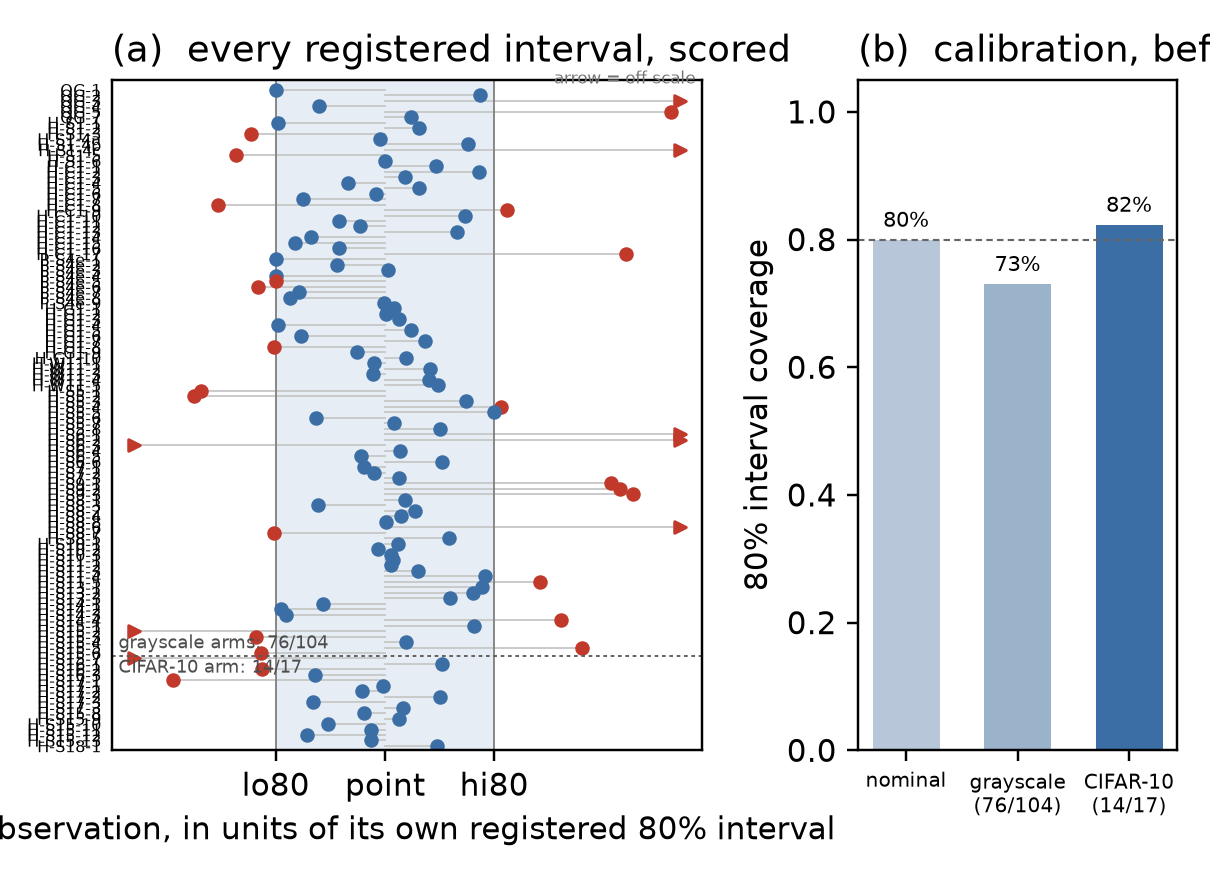
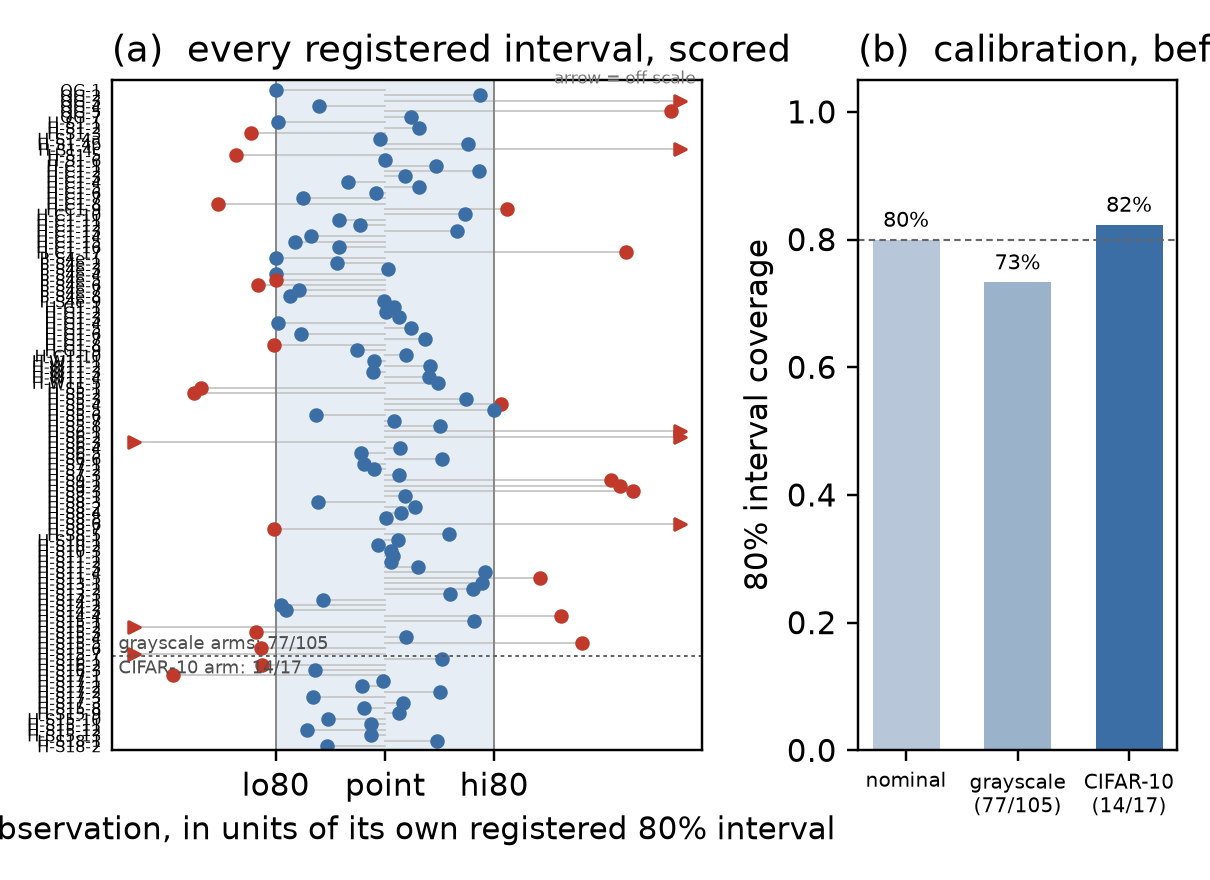
results: S18 shared-init arm at width 128, residual 6.96 points
W12 on P-shared-det-w128 reaches 92.28 (5 seeds) against 85.32 on
P-random-w128, so the shared-versus-random difference is 6.96 points
against 7.8 at width 32. H-S18-2 (point 8, interval [3, 20]) scored as
a hit; calibration figure regenerated from the outcomes ledger.

diff --git a/docs/CLAIMS.md b/docs/CLAIMS.md
@@ -79,3 +79,4 @@ Types: `theorem` (proved), `proposition`, `conjecture` (+ supporting experiment)
 | 65 | **The leaderboard row is complete: W12 places 3rd, 3rd and 2nd of seven, and beats ScaleGMN on CIFAR-10.** Run unchanged and frozen per dataset on the three standard INR-classification corpora: **MNIST 93.08 ± 0.44, FashionMNIST 75.15 ± 0.31, CIFAR-10 38.16 ± 0.22** (five seeds each). Above DWSNets, both NFN variants and NG-GNN on **all three**; above **ScaleGMN** (36.43) on CIFAR-10 by 1.7; below ScaleGMN-B everywhere (−3.5, −5.6, −0.66). The CIFAR gap to ScaleGMN-B is ~3 SD of our seed spread, so it is a real gap and not noise. Import provenance: FashionMNIST uses the **authors' own splits.json** (55k/5k/10k, ScaleGMN's exact protocol); MNIST and CIFAR-10 ship no split file, so their test halves are the authors' and validation is carved deterministically from training, declared wherever quoted. CIFAR's train/test division was **verified** rather than assumed (ids <50000 give exactly 5000/class, ≥50000 exactly 1000/class = CIFAR's own split). The 950k augmented INRs in that archive belong to ScaleGMN's separate Augmented CIFAR-10 column and were excluded. **Caveat repeated per cell:** the runner's recovery_fraction (0.984 / 0.889 / 0.806) normalizes against OUR anchors and is meaningless on these corpora; only absolute accuracy is comparable | confirmatory (S13 registered for MNIST; the two further cells are the same frozen configuration run on more corpora) | results/ladder/{mnist,fashionmnist,cifar10}/W12_dwsbench.json | scripts/62_import_dws_benchmark.py, 64_import_inr_benchmark2.py, 65_import_cifar_inr_benchmark.py, 63_bench_table.py | — | done; supersedes row 64's single-cell result |
 | 66 | **The channel-count crossover is NOT evidence about the grading: the (1,1) block's width contributes nothing.** Three arms on `cifar10`, frozen W12, n=5, only the output weights entering the (1,1) block changed. **A** (u full, width 4, full colour) f=0.9645; **B** (u→channel mean, width 2, less colour) f=0.7698; **C** (that mean padded back to 3 channels, width 4, same information as B) f=0.7557. **Width effect (C−B, information fixed) = −0.014** — zero, and slightly negative. **Information effect (A−C, width fixed) = +0.209** — fifteen times larger. Padding the block back to full width bought nothing, so the mechanism story (that the (1,1) block is the only one whose width grows with c, and that this is why W12 suits RGB) is **false**. All of the channel-count advantage is that RGB INRs carry more information for any reader. Per S14 §5, pre-committed: the crossover is not evidence about our grading, and **W12's CIFAR-10 win over ScaleGMN needs an explanation we do not have**. The three-arm design is what makes this conclusive — a single collapse shows −0.195 and would have supported the false story; the pad arm cost one hour and killed it. **Loose thread for the follow-up:** arm B lands 0.056 *below* the luminance corpus (0.826), so mangling u inside the reader hurts more than genuinely fitting grayscale images does, which means the luminance corpus recovers something through a route the collapse destroys | confirmatory (pre-registered S14, **3/4 intervals**; P-S14-A true 0.09, P-S14-B false 0.1225, P-S14-C false **0.36**) | results/s14/verdict.json, results/ladder/cifar10/W12_umean{,pad}.json | scripts/47_w12_phasor.py --u-mode, 68_s14_u_ablation.sh; T20 | — | done; H-S14-4 missed high (0.07 registered, 0.209 observed) — the seventh effect on our own construction we have under-predicted |
 | 67 | **S12 attempt 2: doubling the budget made stationarity ~3× WORSE, at identical fit quality. Second failure, reported not escalated.** Same 1e-4 bar, cosine schedule, per-INR stop, step cap 6000 → 12000, staged so replication 0 alone decided whether the rest were fitted. Median relative endpoint gradient norm **1.19e−4 → 3.66e−4** (P-shared-det) and **1.31e−4 → 3.79e−4** (P-random), while median render PSNR was **unchanged to the decimal** (69.3 and 70.2 dB in both attempts). Twice the budget bought fits sitting further from a stationary point that reconstruct the image exactly as well. Stopped at replication 0 per S12-addendum-01 rather than fitting two more or searching for a third schedule; the threshold was never loosened. **This strengthens rather than weakens the S8 conclusion**: constant-step Adam diffuses (S8), cosine-annealed Adam at 6k lands just above the bar (attempt 1), and at 12k lands further from it (attempt 2). Three schedules agree the obstruction is optimizer geometry on these objectives, not step count. Machine note: two of the three earlier throughput collapses were swap exhaustion, and one apparent stall was my own watchdog killing a healthy resuming job — see row 63 and scripts/69_stall_watchdog.sh | confirmatory-null (pre-registered S12 + addendum 01; gate failed, nothing decoded) | results/s12/gate_attempt2_stage.json | scripts/67_s12_attempt2.sh, 60_score_s12.py --tag s12b --reps 0 | — | done; the converged-fit question stays open and the paper says the remainder is not a budget problem |
+| 68 | **The phasor-graded reader holds at width 128, and its residual is about the same size as at width 32.** On the width-128 MNIST arm (17,025 parameters per INR, reader capacity rule unchanged), **s(W12) = 0.881** on P-random-w128 (85.32%, 5 seeds) against alignment's 0.677, and W12's shared-versus-random difference is **6.96 points** (92.28% on P-shared-det-w128) against 7.8 at width 32. Width and convergence still move together on this arm, so this does not separate them | confirmatory (pre-registered S18, hash ddad1a27d6c47039, **2/2 intervals**: H-S18-1 point 0.85 vs observed 0.881, H-S18-2 point 8 vs observed 6.96; P-S18-A resolved TRUE, Brier 0.0625) | results/ladder_w128/mnist/W12_w128.json, W12_w128_shareddet.json | scripts/47_w12_phasor.py, 79_s15x_s18_chain.sh | — | done |
